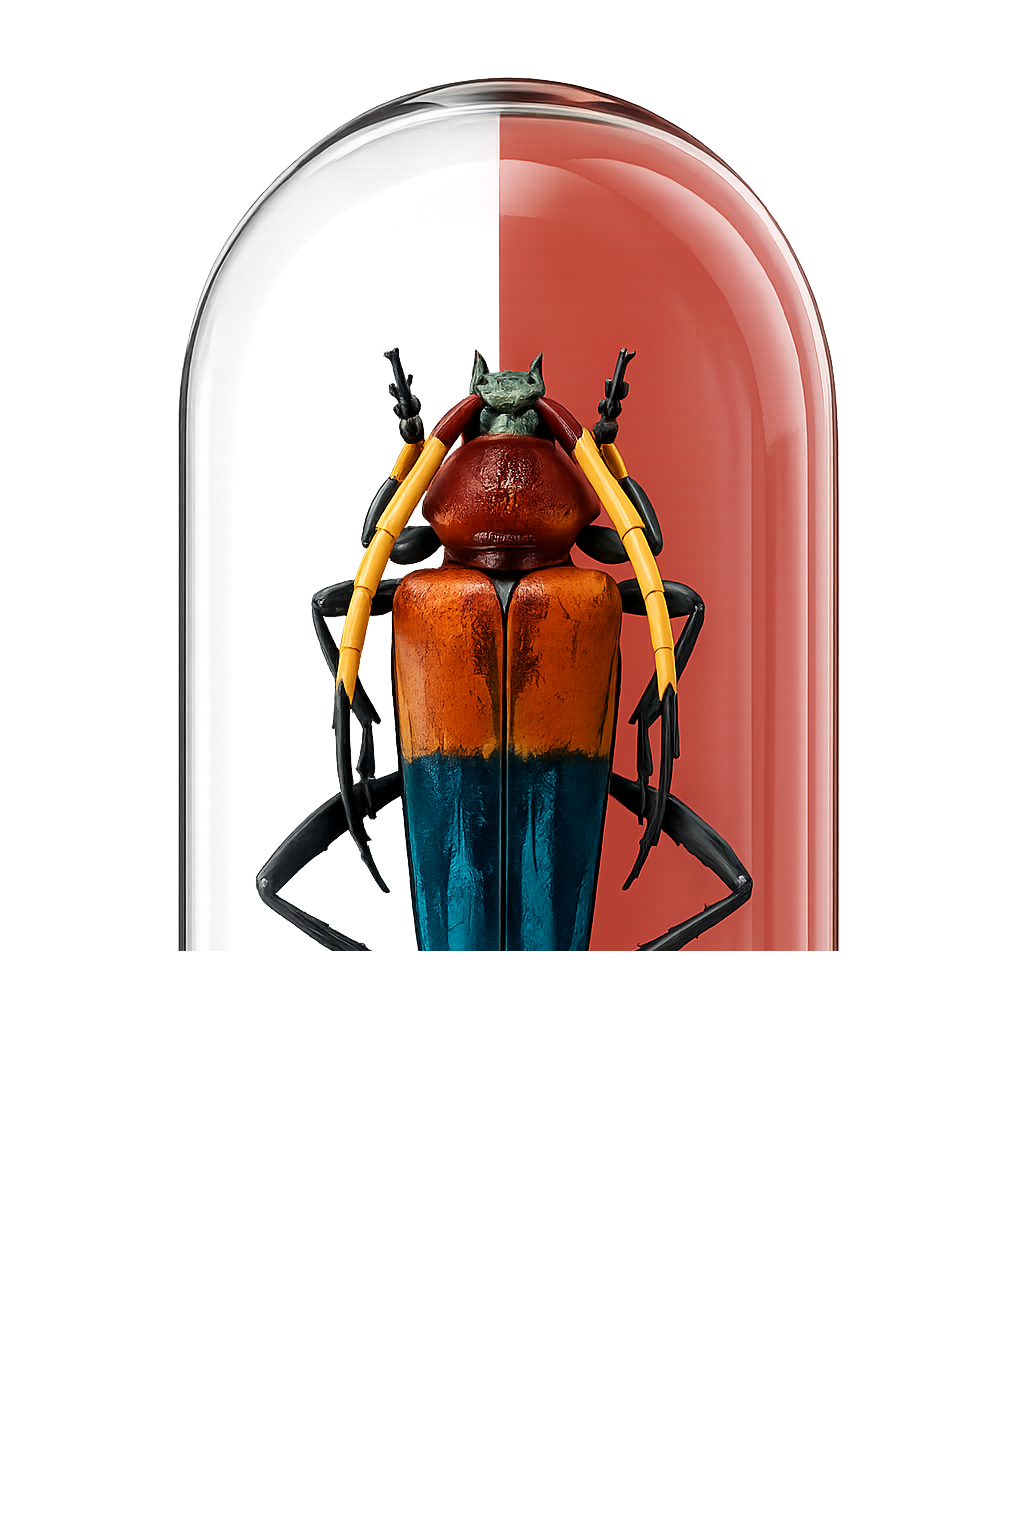
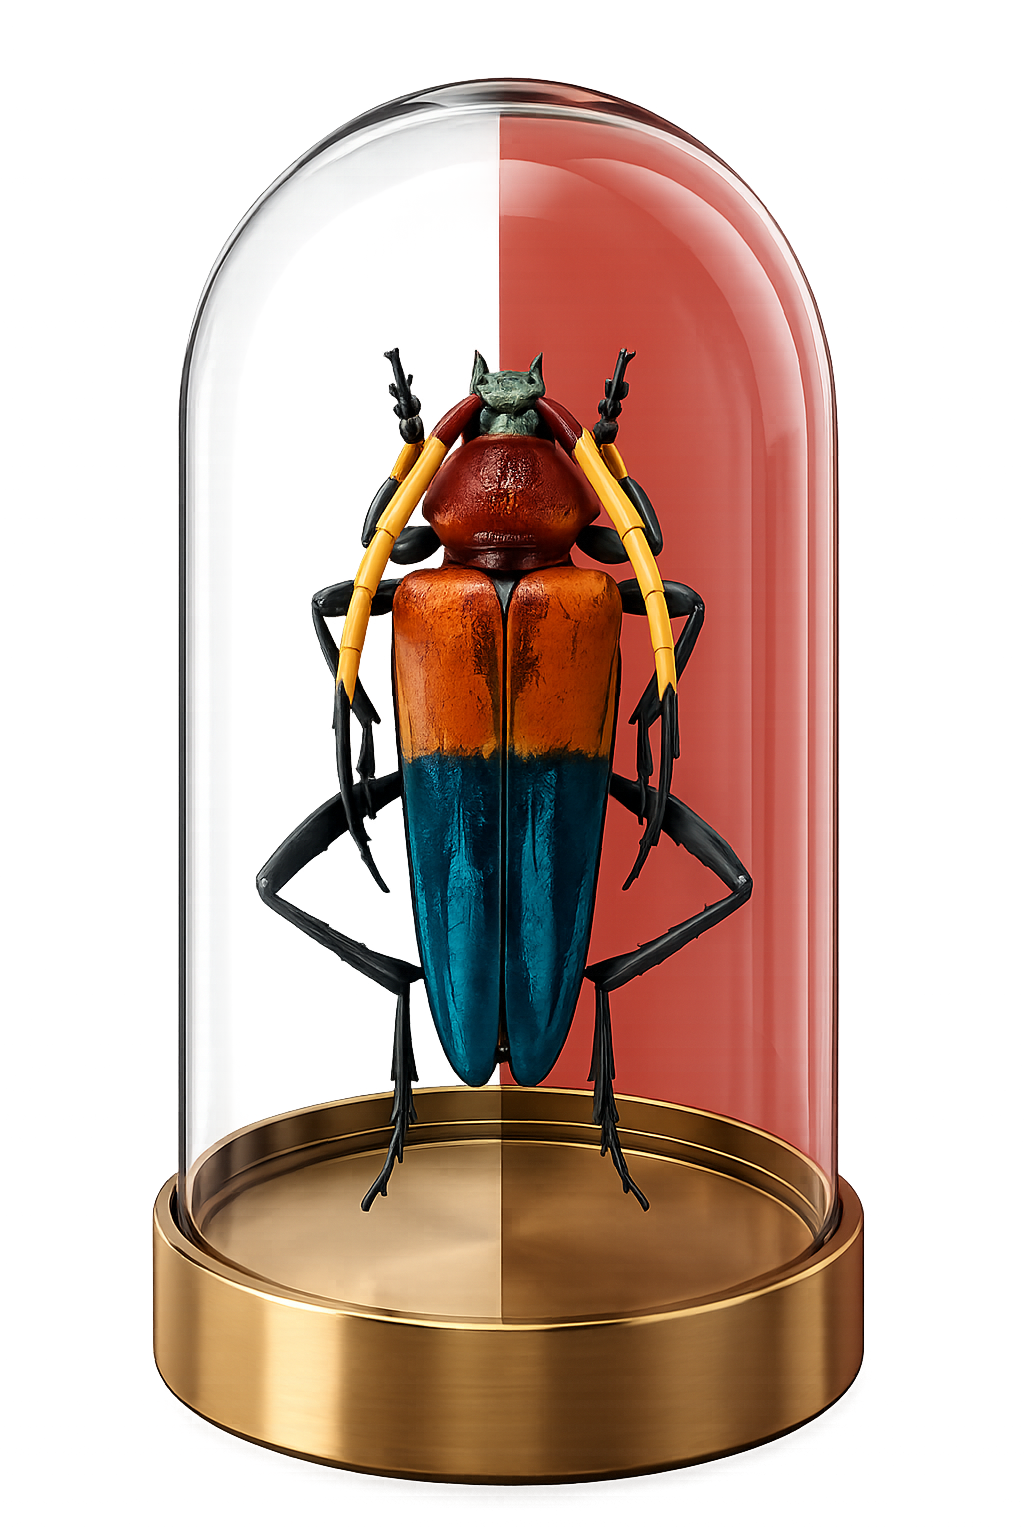
added live links

Changed region(s): [[0.125, 0.5938, 0.8438, 0.9688]]

diff --git a/assignment-2/Readme.md b/assignment-2/Readme.md
@@ -1,0 +1,5 @@
+Live links 
+
+1. https://astro-cloth.netlify.app
+2. https://insect-p.netlify.app
+3. https://brand-assignment2.netlify.app
